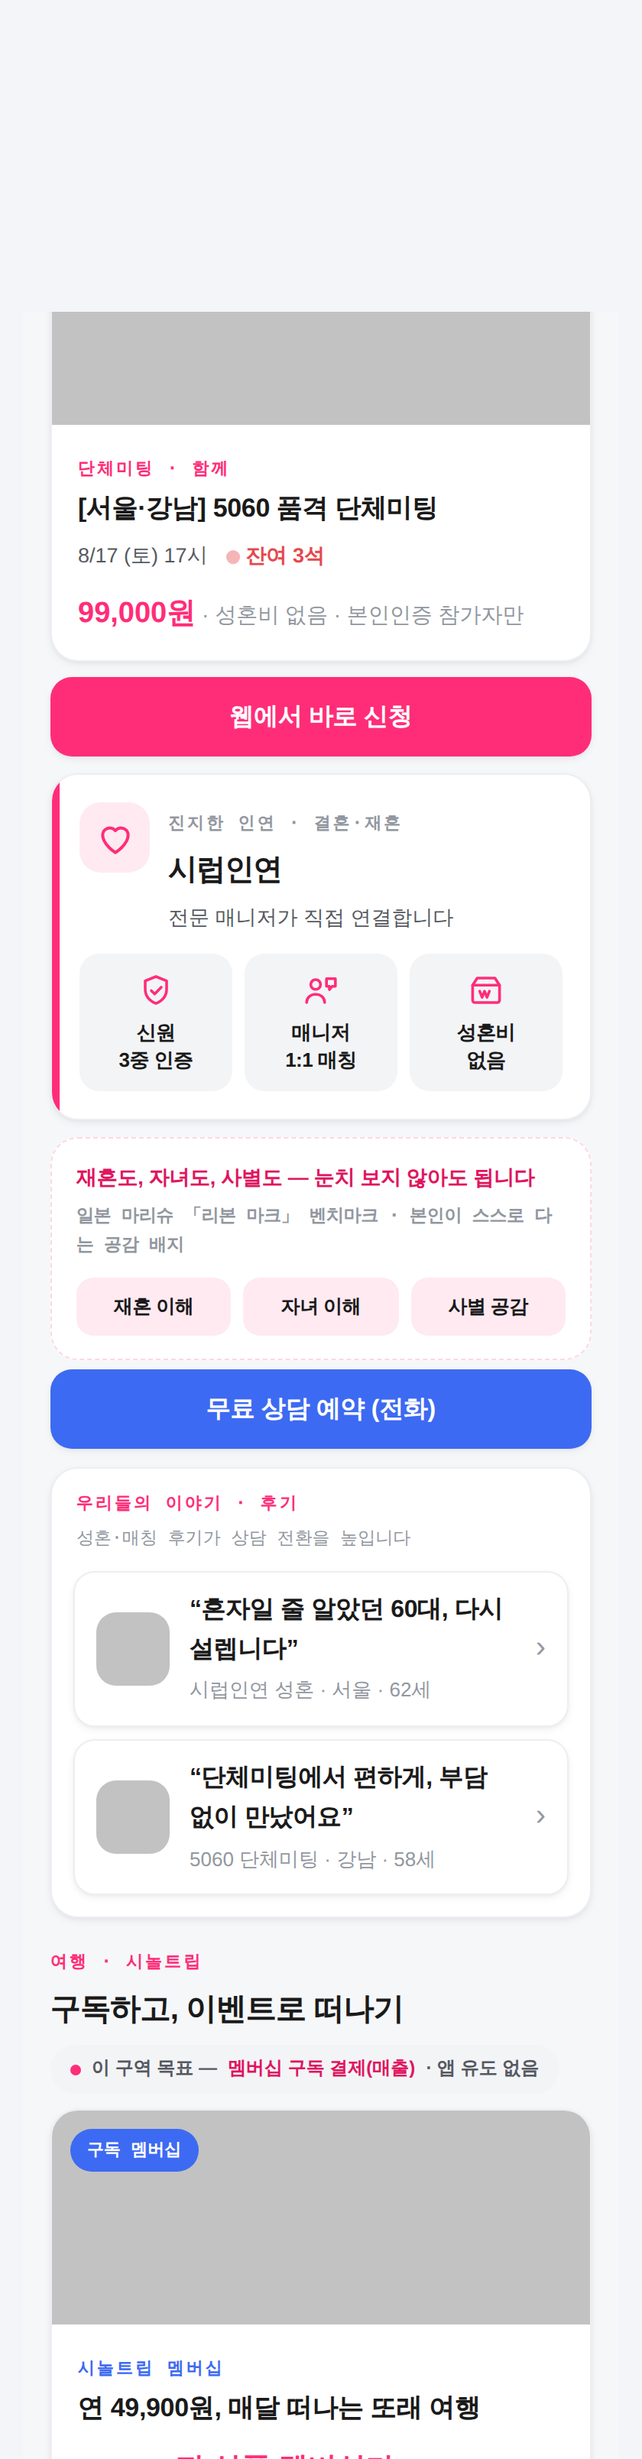
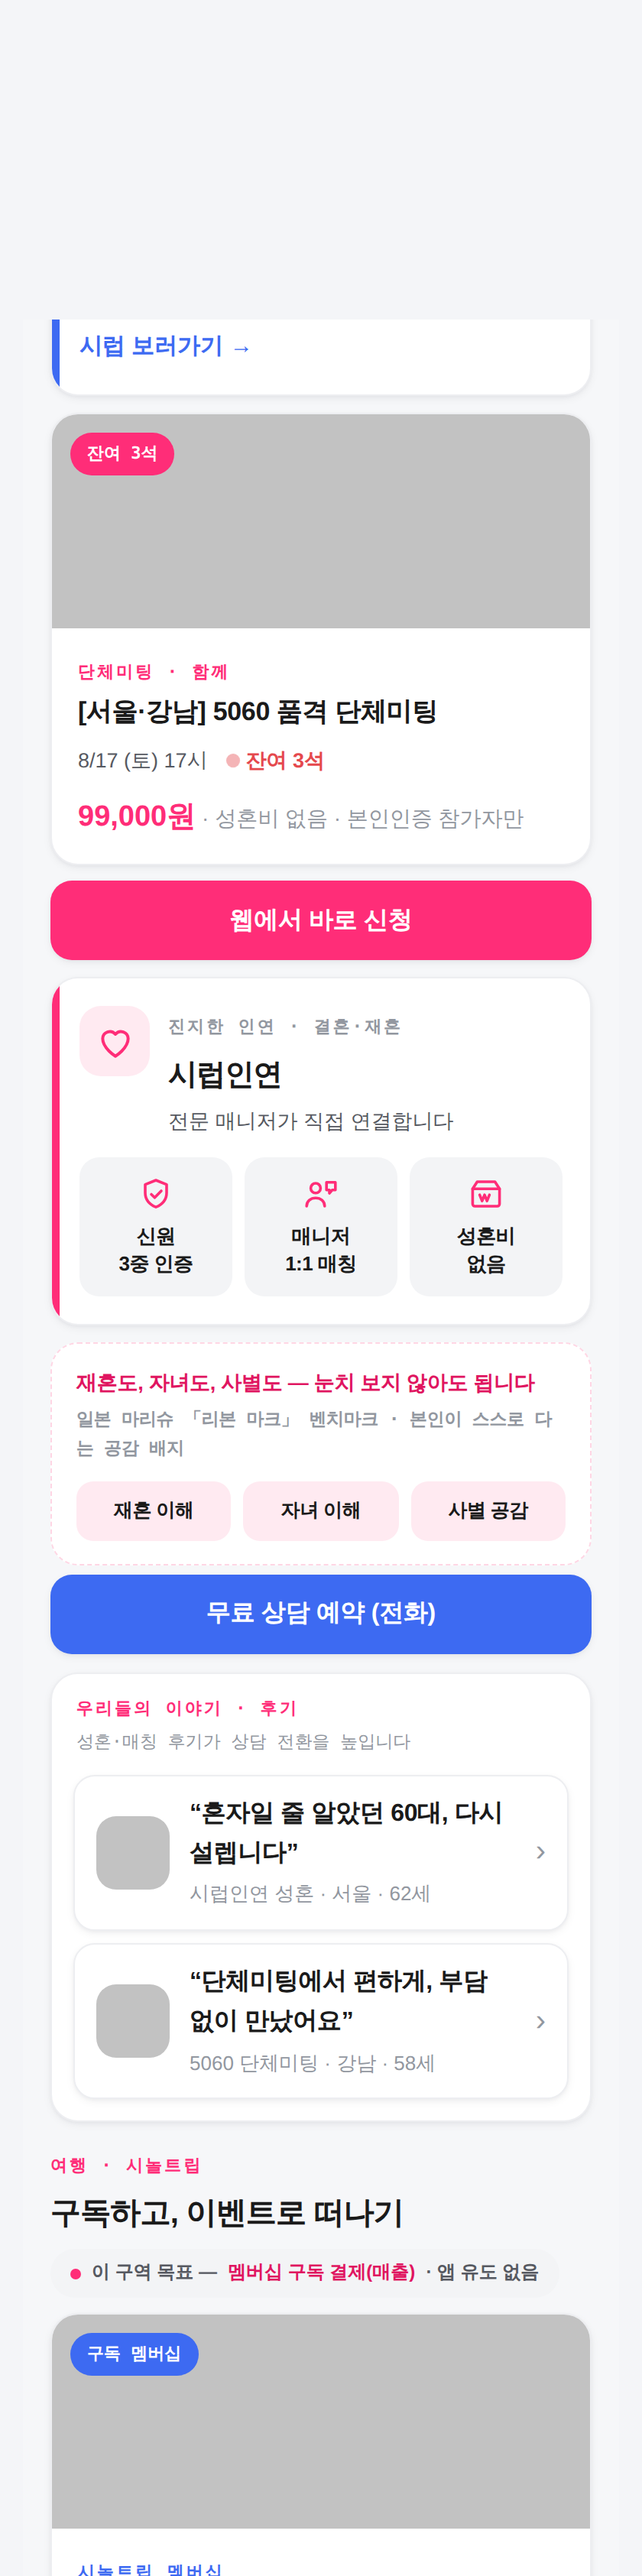
이벤트 2종 반영: 친구초대 5,000원 · 모임개설 11만P (매출+앱설치 동시 레버)
배치 판단:
- 히어로 매출 CTA '바로 아래'에 2분할 이벤트 스트립 — 최상위 노출이되
  1순위 매출 CTA를 밀어내지 않는 자리. 만남/여행 매출 구역 침범도 없음
- 모임개설 11만P는 모임 섹션에도 강조 배너로 이중 배치
  (그 구역 목표가 이미 '앱 설치'라 맥락 전환율이 가장 높은 자리)

컨텍스트 대응:
- 웹 단독: '앱 받고 초대하기' / '앱에서 개설하기' (앱 다운로드로 연결)
- 앱 내 웹뷰: '친구 초대하기' / '모임 개설하기' (이미 앱 안이므로 설치 문구 제거)
- 초대 링크의 utm(source=app·medium=invite·campaign=inviteFriendsByLink) 원형 보존

검증: Chromium — 카드 2개 · utm 보존 · 컨텍스트별 문구 전환 · JS오류 없음

Claude-Session: https://claude.ai/code/session_01CFjtpVsf6LGtspHar3kkuq

diff --git a/prototype/index.html b/prototype/index.html
@@ -402,6 +402,25 @@ a{color:inherit}
 .webwrap.inapp .wdl,.webwrap.inapp #webdlbar,.webwrap.inapp .dlwrap,.webwrap.inapp .appinline,.webwrap.inapp .sharebar{display:none!important}
 .webwrap.inapp .inappnote{display:block}
 .inappnote{display:none;margin:12px 18px;background:var(--blue-50);border-radius:var(--r-md);padding:12px 14px;font-size:13px;color:var(--blue-d);font-weight:700;line-height:1.5}
+/* 이벤트 스트립 — 친구초대 5,000원 · 모임개설 11만P (앱 설치 + 매출 동시 레버) */
+.evstrip{display:grid;grid-template-columns:1fr 1fr;gap:9px;margin:12px 18px 0}
+.evstrip .ev{display:flex;flex-direction:column;gap:5px;border-radius:var(--r-lg);padding:14px;text-decoration:none;box-shadow:var(--sh-sm);min-height:118px;justify-content:space-between}
+.evstrip .ev.iv{background:linear-gradient(145deg,#FFE9F1 0%,#FFD6E4 100%)}
+.evstrip .ev.op{background:linear-gradient(145deg,#E9F0FF 0%,#D9E4FF 100%)}
+.evstrip .evtag{display:inline-block;align-self:flex-start;background:rgba(255,255,255,.85);border-radius:999px;padding:3px 9px;font-size:10.5px;font-weight:800;font-family:var(--mono)}
+.evstrip .ev.iv .evtag{color:var(--pink-d)} .evstrip .ev.op .evtag{color:var(--blue-d)}
+.evstrip .ev b{font-size:15px;font-weight:800;color:var(--ink);line-height:1.35;letter-spacing:-.02em}
+.evstrip .ev b i{font-style:normal;font-size:17px}
+.evstrip .ev.iv b i{color:var(--pink-d)} .evstrip .ev.op b i{color:var(--blue-d)}
+.evstrip .ev .cta2{font-size:12.5px;font-weight:800}
+.evstrip .ev.iv .cta2{color:var(--pink-d)} .evstrip .ev.op .cta2{color:var(--blue-d)}
+.ev-app{display:none} .webwrap.inapp .ev-web{display:none} .webwrap.inapp .ev-app{display:inline}
+.evbig{margin:10px 18px 0;display:flex;align-items:center;gap:13px;background:var(--blue-50);border:1px solid #D9E4FF;border-radius:var(--r-lg);padding:15px 16px;text-decoration:none}
+.evbig .pt{flex:0 0 auto;background:var(--blue);color:#fff;border-radius:13px;padding:10px 12px;font-size:15px;font-weight:800;font-family:var(--mono);letter-spacing:-.02em}
+.evbig .tx{flex:1;min-width:0}
+.evbig .tx b{display:block;font-size:15.5px;font-weight:800;color:var(--ink);letter-spacing:-.02em}
+.evbig .tx span{display:block;font-size:12.5px;color:var(--ink-2);margin-top:3px;line-height:1.45}
+.evbig .ch{color:var(--blue-d);font-size:20px;flex:0 0 auto}
 .startbar{display:flex;gap:8px;margin:14px 18px 0}
 .startbar .go{flex:1;background:var(--pink);color:#fff;border-radius:var(--r-md);padding:15px;font-size:16px;font-weight:800;text-align:center}
 .startbar .q{width:64px;background:var(--kakao);color:#3A2E00;border-radius:var(--r-md);display:grid;place-items:center;font-size:14px;font-weight:800}
@@ -1033,6 +1052,18 @@ footer.pg .r b{color:#fff}
             </div>
             <div class="herohint">앱 설치 없이 <b>웹에서 바로 상담·신청·결제</b>가 됩니다.</div>
             <div class="inappnote">앱 내 웹뷰(<b>web.sinor.co.kr</b>) 상태입니다 — 이미 앱 안이므로 <b>설치 유도를 모두 숨깁니다</b>. 목표는 상담·신청·결제 완결.</div>
+            <div class="evstrip">
+              <a class="ev iv" href="https://sinor.co.kr/?utm_source=app&amp;utm_medium=invite&amp;utm_campaign=inviteFriendsByLink" target="_blank" rel="noopener">
+                <span class="evtag">친구초대 이벤트</span>
+                <b>친구도 나도<br><i>5,000원</i> 받기</b>
+                <span class="cta2 ev-web">앱 받고 초대하기 →</span><span class="cta2 ev-app">친구 초대하기 →</span>
+              </a>
+              <a class="ev op" href="https://sinor.co.kr/download" target="_blank" rel="noopener">
+                <span class="evtag">모임개설 이벤트</span>
+                <b>모임 열면<br><i>11만 포인트</i></b>
+                <span class="cta2 ev-web">앱에서 개설하기 →</span><span class="cta2 ev-app">모임 개설하기 →</span>
+              </a>
+            </div>
 
             <!-- 만남 — 매출 66% (최우선 수익 블록) -->
             <div class="wsec"><span class="eb">만남 · 매출의 66%</span><h2>어떤 만남을 찾으세요?</h2></div>
@@ -1077,6 +1108,11 @@ footer.pg .r b{color:#fff}
             <div class="goaltag app"><span class="dot"></span>이 구역 목표 — <b>앱 설치</b> · 참여·채팅은 앱에서</div>
             <div class="lrow" onclick="window.open('https://sinor.co.kr/moim','_blank')"><div class="av img-slot"><img src="https://images.unsplash.com/photo-1544161515-4ab6ce6db874?auto=format&fit=crop&w=100&q=80" alt="등산 모임"></div><div class="li"><h4>북한산 둘레길 걷기 모임</h4><p>마포구 · 1,672명 · 이번 주 토요일</p></div><span class="chev">›</span></div>
             <div class="lrow" onclick="window.open('https://sinor.co.kr/moim','_blank')"><div class="av img-slot"><img src="https://images.unsplash.com/photo-1511671782779-c97d3d27a1d4?auto=format&fit=crop&w=100&q=80" alt="음악 모임"></div><div class="li"><h4>7080 통기타 · 노래 모임</h4><p>강남구 · 매주 목요일 저녁</p></div><span class="chev">›</span></div>
+            <a class="evbig" href="https://sinor.co.kr/download" target="_blank" rel="noopener">
+              <span class="pt">11만P</span>
+              <span class="tx"><b>모임을 열면 11만 포인트</b><span>모임개설 이벤트 · 개설은 앱에서 합니다</span></span>
+              <span class="ch">›</span>
+            </a>
             <div class="appinline">
               <a href="https://play.google.com/store/apps/details?id=com.sinor.gathering" target="_blank" rel="noopener"><svg><use href="#i-gplay"/></svg>앱에서 모임 참여</a>
               <a href="https://apps.apple.com/kr/app/id6503413274" target="_blank" rel="noopener"><svg><use href="#i-apple"/></svg>앱에서 모임 참여</a>
